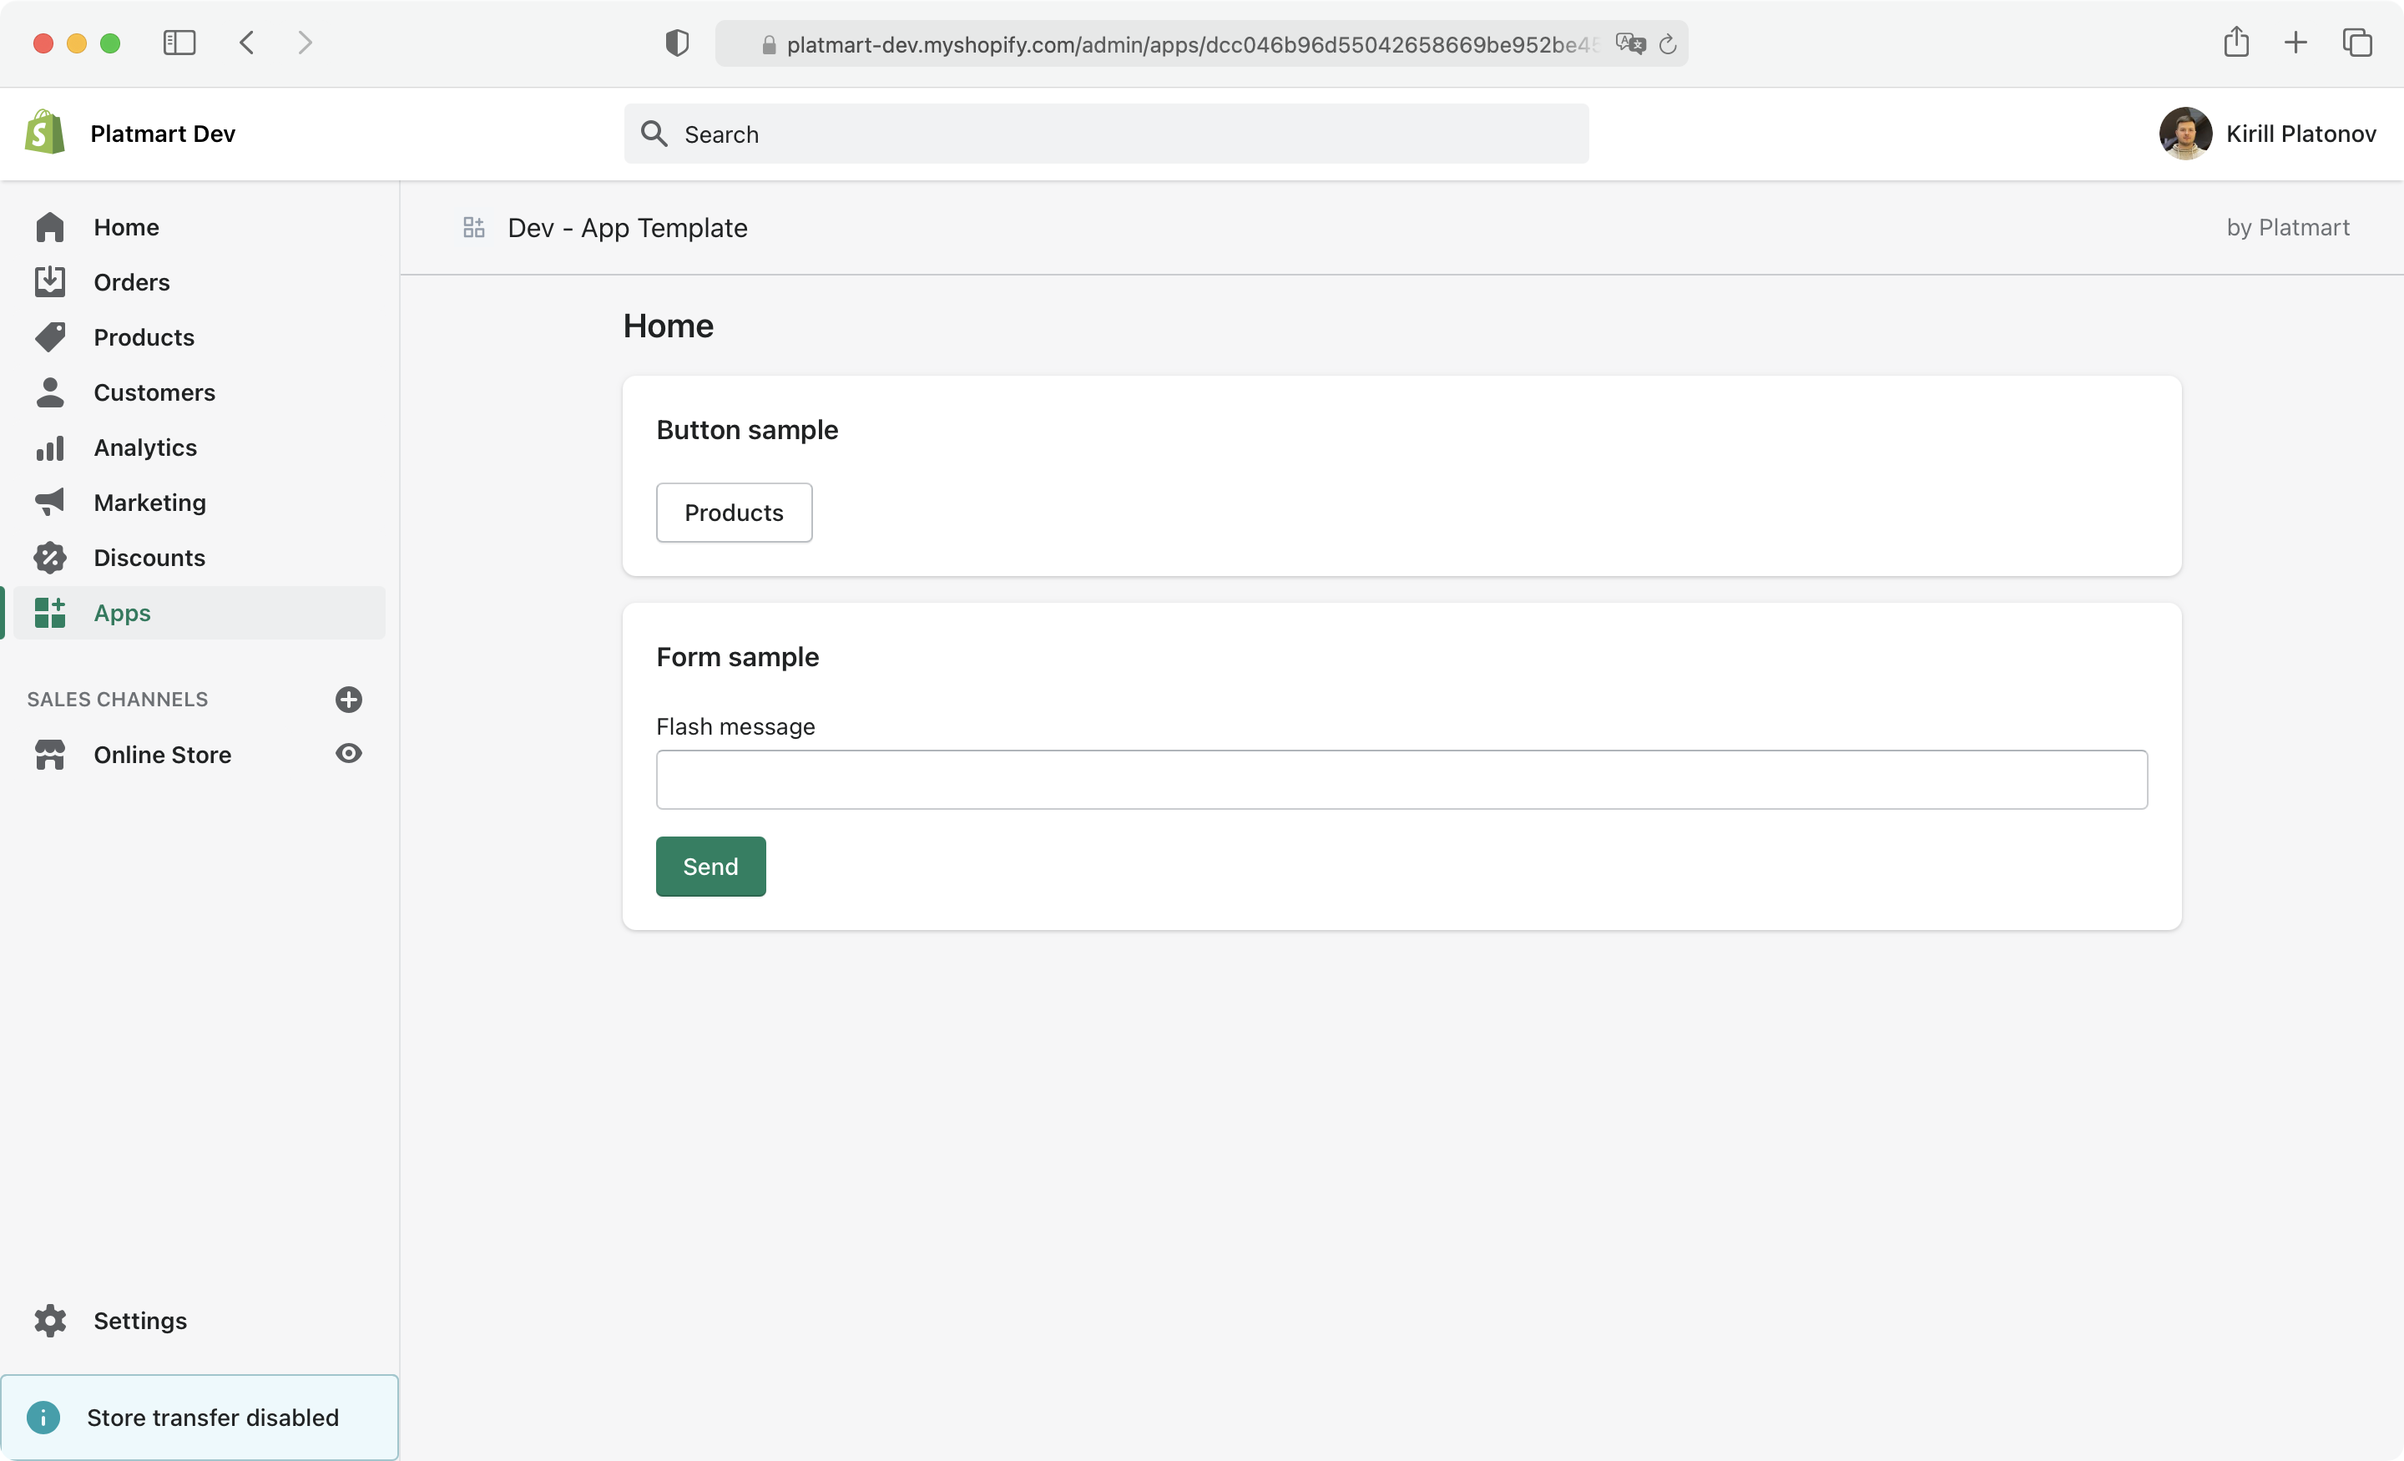
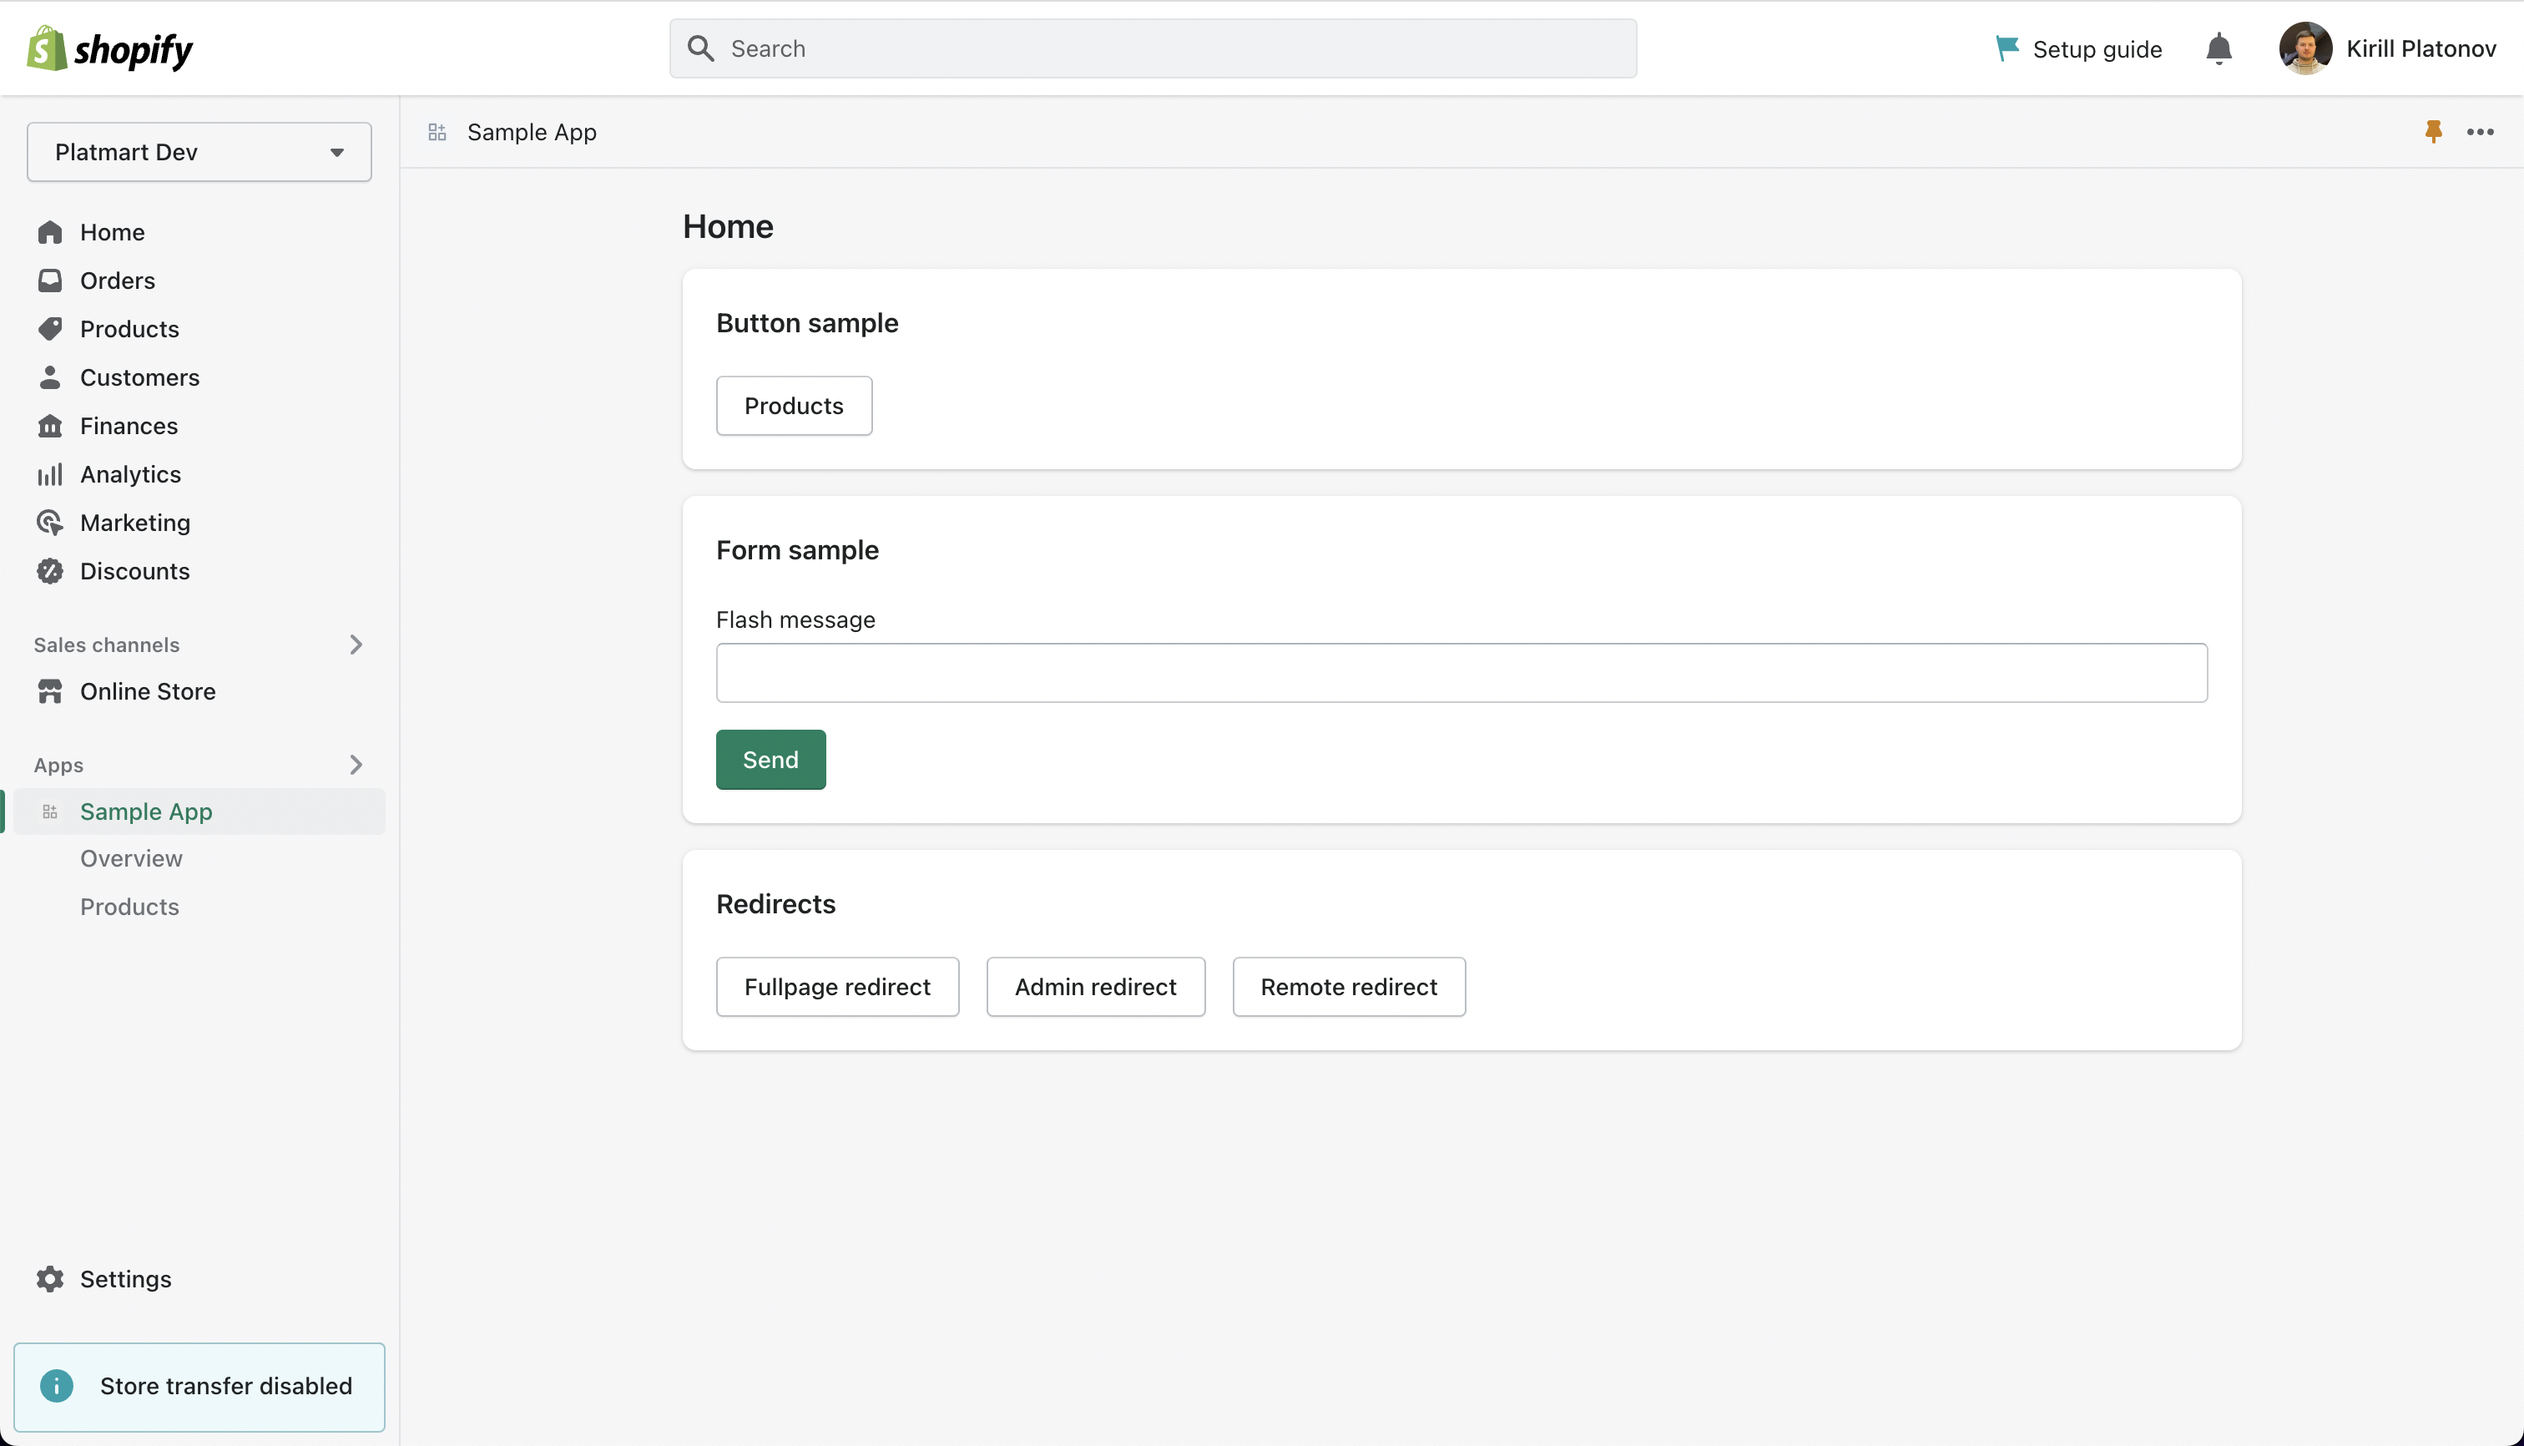
Add redirect samples (#48)

diff --git a/app/javascript/controllers/redirect_controller.js b/app/javascript/controllers/redirect_controller.js
@@ -1,0 +1,42 @@
+import { Controller } from "@hotwired/stimulus"
+import { Redirect } from "@shopify/app-bridge/actions"
+
+export default class extends Controller {
+  initialize () {
+    this.appBridgeRedirect = Redirect.create(window.app)
+  }
+
+  admin(event) {
+    event.preventDefault()
+
+    if (this.newWindow) {
+      this.appBridgeRedirect.dispatch(Redirect.Action.ADMIN_PATH, {
+        url: this.url,
+        newContext: true
+      })
+    } else {
+      this.appBridgeRedirect.dispatch(Redirect.Action.ADMIN_PATH, this.url)
+    }
+  }
+
+  remote(event) {
+    event.preventDefault()
+
+    if (this.newWindow) {
+      this.appBridgeRedirect.dispatch(Redirect.Action.REMOTE, {
+        url: this.url,
+        newContext: true
+      })
+    } else {
+      this.appBridgeRedirect.dispatch(Redirect.Action.REMOTE, this.url)
+    }
+  }
+
+  get url() {
+    return this.element.getAttribute('href')
+  }
+
+  get newWindow() {
+    return this.element.getAttribute('target') === '_blank'
+  }
+}

diff --git a/app/javascript/controllers/index.js b/app/javascript/controllers/index.js
@@ -4,5 +4,8 @@
 
 import { application } from "./application"
 
-import FlashController from "./flash_controller.js"
+import FlashController from "./flash_controller"
 application.register("flash", FlashController)
+
+import RedirectController from "./redirect_controller"
+application.register("redirect", RedirectController)

diff --git a/config/routes.rb b/config/routes.rb
@@ -4,6 +4,7 @@ Rails.application.routes.draw do
 
   resources :products, only: [:index]
   resource :messages, only: :create
+  resource :redirect, only: :new
 
   mount ShopifyApp::Engine, at: '/'
 end

diff --git a/app/controllers/redirects_controller.rb b/app/controllers/redirects_controller.rb
@@ -1,0 +1,7 @@
+# frozen_string_literal: true
+
+class RedirectsController < AuthenticatedController
+  def new
+    fullpage_redirect_to "https://shopify.dev"
+  end
+end
